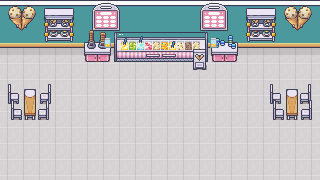
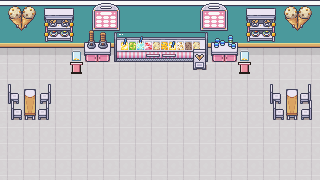
draw solid castles, a jar on a stand and seated buskers

diff --git a/scripts/venue-art.py b/scripts/venue-art.py
@@ -7,6 +7,7 @@ import math, pathlib, random, sys
 from PIL import Image
 
 ART = pathlib.Path(sys.argv[1])
+PREMADE = ART / "moderninteriors-win/2_Characters/Character_Generator/0_Premade_Characters/16x16"
 ME = ART / "modernexteriors-win/Modern_Exteriors_16x16"
 SINGLES = ME / "Modern_Exteriors_Complete_Singles_16x16"
 MI = ART / "moderninteriors-win"
@@ -14,7 +15,6 @@ DESIGNS = MI / "6_Home_Designs"
 THEMES = MI / "1_Interiors/16x16/Theme_Sorter"
 BUILDER = MI / "1_Interiors/16x16/Room_Builder_subfiles"
 FARM = ART / "Modern_Farm_v1.3/16x16"
-PEOPLE = pathlib.Path(__file__).resolve().parent.parent / "public" / "court" / "people"
 OUT = pathlib.Path(__file__).resolve().parent.parent / "public" / "court" / "venues"
 OUT.mkdir(parents=True, exist_ok=True)
 W, H = 320, 180
@@ -102,28 +102,37 @@ def cart():
 
 
 def jar():
-    glass, rim = (190, 226, 238, 255), (112, 152, 172, 255)
-    return sprite(7, 10, [
-        (1, 0, 5, 2, (170, 176, 184, 255)), (1, 0, 5, 1, (214, 218, 224, 255)),
-        (0, 2, 7, 8, rim), (1, 2, 5, 7, glass), (1, 6, 5, 3, (240, 190, 80, 255)), (2, 7, 1, 1, (255, 230, 140, 255)), (4, 6, 1, 1, (255, 230, 140, 255)),
+    glass, rim = (206, 236, 246, 255), (84, 126, 150, 255)
+    return sprite(9, 11, [
+        (1, 0, 7, 2, (120, 128, 138, 255)), (1, 0, 7, 1, (214, 218, 224, 255)),
+        (0, 2, 9, 9, rim), (1, 2, 7, 8, glass), (1, 2, 1, 7, (255, 255, 255, 255)),
+        (2, 9, 2, 1, (242, 182, 50, 255)), (5, 9, 2, 1, (242, 182, 50, 255)), (3, 8, 2, 1, (255, 226, 130, 255)),
+    ])
+
+
+def stand():
+    pink, dark = (236, 146, 160, 255), (168, 84, 104, 255)
+    return sprite(13, 12, [
+        (0, 0, 13, 3, INK), (1, 1, 11, 1, (248, 236, 240, 255)), (1, 2, 11, 1, dark),
+        (2, 3, 9, 8, INK), (3, 3, 7, 7, pink), (3, 3, 1, 7, (250, 190, 200, 255)), (9, 3, 1, 7, dark),
+        (1, 10, 11, 2, INK),
     ])
 
 
 def pedestal():
     stone, light, dark = (205, 200, 190, 255), (232, 228, 218, 255), (150, 144, 134, 255)
-    return sprite(16, 24, [
-        (0, 0, 16, 4, INK), (1, 1, 14, 2, light), (1, 3, 14, 1, dark),
-        (2, 4, 12, 16, INK), (3, 4, 10, 15, stone), (3, 4, 1, 15, light), (12, 4, 1, 15, dark),
-        (0, 20, 16, 4, INK), (1, 20, 14, 3, dark), (1, 20, 14, 1, stone),
+    return sprite(22, 24, [
+        (0, 0, 22, 4, INK), (1, 1, 20, 2, light), (1, 3, 20, 1, dark),
+        (2, 4, 18, 16, INK), (3, 4, 16, 15, stone), (3, 4, 1, 15, light), (18, 4, 1, 15, dark),
+        (0, 20, 22, 4, INK), (1, 20, 20, 3, dark), (1, 20, 20, 1, stone),
     ])
 
 
 def guitar_case():
-    return sprite(18, 10, [
-        (1, 0, 16, 3, INK), (2, 1, 14, 2, (92, 62, 40, 255)),
-        (0, 3, 18, 7, INK), (1, 4, 16, 4, (142, 47, 47, 255)), (1, 4, 16, 1, (176, 74, 66, 255)),
-        (3, 6, 1, 1, (240, 190, 80, 255)), (9, 5, 1, 1, (240, 190, 80, 255)), (13, 6, 1, 1, (240, 190, 80, 255)),
-        (1, 8, 16, 1, (110, 80, 52, 255)),
+    return sprite(24, 13, [
+        (1, 0, 22, 5, INK), (2, 1, 20, 3, (96, 64, 42, 255)), (2, 1, 20, 1, (130, 92, 62, 255)),
+        (0, 4, 24, 9, INK), (1, 5, 22, 6, (150, 40, 44, 255)), (1, 5, 22, 1, (184, 72, 70, 255)),
+        (1, 11, 22, 1, (120, 86, 56, 255)), (5, 11, 2, 1, (242, 190, 80, 255)), (17, 11, 2, 1, (242, 190, 80, 255)),
     ])
 
 
@@ -143,12 +152,24 @@ def pit(w=34, h=11):
     return im
 
 
-def busker(who):
-    sheet = load(PEOPLE / f"{who}.png")
-    im = sheet.crop((18 * 16, 0, 18 * 16 + 16, 32))
-    for x, y, w, h, col in ((11, 14, 1, 1, INK), (12, 13, 1, 1, INK), (13, 12, 1, 1, INK), (14, 11, 1, 1, INK),
-                            (4, 17, 7, 6, INK), (5, 18, 5, 4, (190, 124, 66, 255)), (7, 19, 2, 2, INK)):
+def busker(n, left):
+    """A seated player on a crate, one of the premade characters; left-hand players face right."""
+    sheet = load(PREMADE / f"Premade_Character_{n:02d}.png")
+    x0 = 0 if left else 6 * 16
+    im = Image.new("RGBA", (30, 29))
+    wood, light = (170, 120, 70, 255), (206, 156, 100, 255)
+    for x, y, w, h, col in ((8, 19, 14, 10, INK), (9, 20, 12, 8, wood), (9, 20, 12, 1, light)):
         box(im, x, y, w, h, col)
+    im.alpha_composite(sheet.crop((x0, 138, x0 + 16, 160)), (7, 0))
+    # the guitar in the lap, neck up and out to the side the player faces
+    sign = 1 if left else -1
+    for i in range(10):
+        x = 15 + sign * (4 + i)
+        box(im, x, 14 - i // 2, 1, 2, INK if i % 2 else (120, 80, 48, 255))
+    box(im, 11, 12, 9, 8, INK)
+    box(im, 12, 13, 7, 6, (196, 122, 58, 255))
+    box(im, 12, 13, 7, 1, (226, 160, 86, 255))
+    box(im, 14, 15, 3, 2, INK)
     return im
 
 
@@ -173,8 +194,10 @@ def ice():
     s.at(o((146, 53, 173, 80)), 146 + shift, 53 - up)
     s.at(o((18, 92, 61, 128)), 8, 84)
     s.at(o((130, 92, 172, 128)), 270, 84)
-    target(s, jar(), 107, 39, 3, 1)
-    target(s, jar(), 213, 39, 3, 1)
+    target(s, stand(), 76, 62, 6, 0)
+    target(s, jar(), 76, 51, 4, 1)
+    target(s, stand(), 244, 62, 6, 0)
+    target(s, jar(), 244, 51, 4, 1)
     return s.finish()
 
 
@@ -219,8 +242,8 @@ def museum():
     s.put(o((64, 135, 80, 192)), 308, 66)
     s.at(o((34, 211, 62, 256)), 30, 58)
     s.at(o((242, 211, 270, 256)), 262, 58)
-    target(s, pedestal(), 78, 96, 8, 10)
-    target(s, pedestal(), 242, 96, 8, 10)
+    target(s, pedestal(), 78, 96, 11, 10)
+    target(s, pedestal(), 242, 96, 11, 10)
     return s.finish()
 
 
@@ -247,16 +270,16 @@ def beach():
         px[x, shore] = (225, 147, 75, 255)
         px[x, shore - 1] = (135, 236, 230, 255)
         px[x, shore - 2] = (135, 236, 230, 255) if (x // 3) % 2 else (91, 201, 210, 255)
-    s.put(beach_prop("Ship_Bar"), 52, 92)
+    s.put(beach_prop("Ship_Bar"), 40, 92)
     s.put(beach_prop("Palm_Tree"), 282, 72)
     s.put(beach_prop("Blue_Beach_Umbrella_Opened"), 236, 74)
     s.put(beach_prop("Blue_Beach_Towel_1"), 238, 86)
     s.put(beach_prop("Sand_Castle_2_Vers_2"), 292, 108)
     s.put(beach_prop("Medium_Sea_Rock_1_Vers_1"), 130, 36)
     s.put(beach_prop("Medium_Sea_Rock_1_Vers_2"), 186, 38)
-    castle = beach_prop("Sand_Castle_1_Vers_1")
-    target(s, castle, 100, 82, castle.width // 2, 10)
-    target(s, castle, 212, 82, castle.width // 2, 10)
+    castle = beach_prop("Sand_Castle_2_Vers_2")
+    target(s, castle, 114, 82, 23, 8)
+    target(s, castle, 206, 82, 23, 8)
     return s.finish()
 
 
@@ -354,9 +377,9 @@ def street():
     s.put(ext("City_Props_16x16_Tree_1"), 160, 70)
     s.put(ext("City_Props_16x16_Bench_2"), 40, 104)
     s.put(ext("City_Props_16x16_Bench_2"), 280, 104)
-    for x, who in ((72, "scout3-1"), (248, "scout5-2")):
-        s.put(busker(who), x, 84)
-        target(s, guitar_case(), x, 86, 9, 3)
+    for x, n, left in ((72, 11, True), (248, 17, False)):
+        s.put(busker(n, left), x, 86)
+        target(s, guitar_case(), x, 89, 12, 5)
     s.put(ext("Villas_16x16_Potted_Flowers_2"), 120, 72)
     s.put(ext("Villas_16x16_Potted_Flowers_3"), 200, 72)
     return s.finish()
